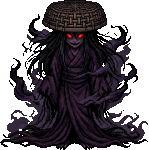
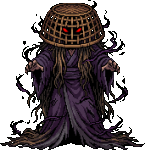
v104: ザルカブリの絵を描き直し（ざるが頭をまるごと覆う）

diff --git a/src/scenes/FieldScene.js b/src/scenes/FieldScene.js
@@ -2,30 +2,30 @@
 // 上 y0〜420 に地図（1マス32ドット・旅の者が真ん中、しおりと加わった仲間が1歩ずつうしろに続く）／下の窓に十字キーと「はなす」「どうぐ」
 // 話す・店・宿の文と選びも下の窓（そのあいだ十字キーは隠す）
 // 旅の状態は registry の 'game'（計算は src/field/game.js）。地図が変わる（町に入る・出る）たびに この場面を始め直す
-import { EPISODES } from '../data/episodes.js?v=103';
-import { ITEMS, PRICE, itemNote } from '../data/items.js?v=103';
-import { FISH, PRIZES, ROD_PRICE, BITE_WINDOW_MS, WAIT_MS, rollFish, zoneStart, inZone, rentRod, addCatch, exchange } from '../field/fishing.js?v=103';
-import { FLAGS, FLAG_PRIZES, ENTRY_PRICE, ROUND_MS, CATCH_P, newRace, stepRace, racePts, flagX, fallP, enterRace, addFlags, exchangeFlag } from '../field/nomaoi.js?v=103';
-import { TILE } from '../field/tiles.js?v=103';
-import { GROUNDS, OBJECTS, fieldLook, townLook } from '../field/look.js?v=103';
-import { preloadKit, makeWindow, makeButton, makePad, paginate } from '../ui/kit.js?v=103';
-import { preloadPeople, frameOf, ORIGIN_Y } from '../field/sprites.js?v=103';
-import { TOWNS, TOWN_OF } from '../field/towns.js?v=103';
+import { EPISODES } from '../data/episodes.js?v=104';
+import { ITEMS, PRICE, itemNote } from '../data/items.js?v=104';
+import { FISH, PRIZES, ROD_PRICE, BITE_WINDOW_MS, WAIT_MS, rollFish, zoneStart, inZone, rentRod, addCatch, exchange } from '../field/fishing.js?v=104';
+import { FLAGS, FLAG_PRIZES, ENTRY_PRICE, ROUND_MS, CATCH_P, newRace, stepRace, racePts, flagX, fallP, enterRace, addFlags, exchangeFlag } from '../field/nomaoi.js?v=104';
+import { TILE } from '../field/tiles.js?v=104';
+import { GROUNDS, OBJECTS, fieldLook, townLook } from '../field/look.js?v=104';
+import { preloadKit, makeWindow, makeButton, makePad, paginate } from '../ui/kit.js?v=104';
+import { preloadPeople, frameOf, ORIGIN_Y } from '../field/sprites.js?v=104';
+import { TOWNS, TOWN_OF } from '../field/towns.js?v=104';
 import {
   mapRows, terrainAt, canWalk, tileNameAt, DELTA, BOSS_AT, WALL_OPENED_BY, SAVE_KEY, maxOf,
   enterTown, leaveTown, buy, stayInn, save, autoSaveAfterBoss, useItem, walkStep, encounterAt,
   purify, kuyo, returnStolen, HARAI_PRICE, KUYO_PRICE, revive, revivePrice, NAME, isField, crossAt,
-} from '../field/game.js?v=103';
-import { membersOf } from '../battle/levels.js?v=103';
-import { COMPANIONS } from '../data/companions.js?v=103';
-import { ICON_IDS } from '../data/icons.js?v=103';
-import { FACE_IDS } from '../data/faces.js?v=103';
-import { mapPointOf } from '../field/mapcard.js?v=103';
-import { FISHING_ICON_IDS } from '../data/icons_fishing.js?v=103';
-import { makeRng } from '../battle/rules.js?v=103';
-import { EQUIP, SLOTS, SLOT_NAME, equipNote, START_EQUIP, diffNote, diffDown } from '../data/equip.js?v=103';
-import { buyEquip, partyView } from '../field/game.js?v=103';
-import { sfx, startBgm, playJingle, jingleSeconds } from '../audio/chip.js?v=103';
+} from '../field/game.js?v=104';
+import { membersOf } from '../battle/levels.js?v=104';
+import { COMPANIONS } from '../data/companions.js?v=104';
+import { ICON_IDS } from '../data/icons.js?v=104';
+import { FACE_IDS } from '../data/faces.js?v=104';
+import { mapPointOf } from '../field/mapcard.js?v=104';
+import { FISHING_ICON_IDS } from '../data/icons_fishing.js?v=104';
+import { makeRng } from '../battle/rules.js?v=104';
+import { EQUIP, SLOTS, SLOT_NAME, equipNote, START_EQUIP, diffNote, diffDown } from '../data/equip.js?v=104';
+import { buyEquip, partyView } from '../field/game.js?v=104';
+import { sfx, startBgm, playJingle, jingleSeconds } from '../audio/chip.js?v=104';
 
 // 景品の窓（釣り＝小名浜の釣り番／旗＝雲雀ヶ原の世話役）。同じ窓を 点の名前と景品の表だけ替えて使う
 const PRIZE_SHOPS = {

diff --git a/src/scenes/BattleScene.js b/src/scenes/BattleScene.js
@@ -1,14 +1,14 @@
-import { EPISODES } from '../data/episodes.js?v=103';
-import { revealAt } from '../ui/reveal.js?v=103';
-import { createBattle, resolveTurn, makeRng } from '../battle/rules.js?v=103';
-import { chooseCommands } from '../battle/auto.js?v=103';
-import { itemNote } from '../data/items.js?v=103';
-import { unlock, isUnlocked, sfx, startBgm, stopBgm, toggleMute, isMuted, playVoice, stopVoice, voiceLevel } from '../audio/chip.js?v=103';
-import { STORY_FILES } from '../data/story_assets.js?v=103';
-import { CUTIN_FILES } from '../data/cutin_assets.js?v=103';
-import { drawScroll } from '../ui/scroll.js?v=103';
-import { preloadKit, makeWindow, makeButton, paginate } from '../ui/kit.js?v=103';
-import { battleData, afterWin, afterLose, zakoData, afterZako, BOSS_MON } from '../field/game.js?v=103';
+import { EPISODES } from '../data/episodes.js?v=104';
+import { revealAt } from '../ui/reveal.js?v=104';
+import { createBattle, resolveTurn, makeRng } from '../battle/rules.js?v=104';
+import { chooseCommands } from '../battle/auto.js?v=104';
+import { itemNote } from '../data/items.js?v=104';
+import { unlock, isUnlocked, sfx, startBgm, stopBgm, toggleMute, isMuted, playVoice, stopVoice, voiceLevel } from '../audio/chip.js?v=104';
+import { STORY_FILES } from '../data/story_assets.js?v=104';
+import { CUTIN_FILES } from '../data/cutin_assets.js?v=104';
+import { drawScroll } from '../ui/scroll.js?v=104';
+import { preloadKit, makeWindow, makeButton, paginate } from '../ui/kit.js?v=104';
+import { battleData, afterWin, afterLose, zakoData, afterZako, BOSS_MON } from '../field/game.js?v=104';
 
 // 1つの戦いの画面を、話ごとのデータ（src/data/<話>.js・並びは episodes.js）で使い回す
 // 絵は Gemini で描いて art_src/prep_art.py で整えた物（敵も背景も2倍で見せる）。データの art に置き場と光の色

diff --git a/src/field/game.js b/src/field/game.js
@@ -1,14 +1,14 @@
 // 旅の状態（居場所・文・持ち物・仲間の HP・元に戻したボス・記録）。画面と切り離す＝Node で試験する
 // ここの関数は game を書き換えずに、新しい game を返す
-import { IWAKI_ROWS } from './iwaki_map.js?v=103';
-import { SOMA_ROWS } from './soma_map.js?v=103';
-import { FIELD_TERRAIN, TOWN_TERRAIN } from './tiles.js?v=103';
-import { TOWNS, TOWN_ENTRY } from './towns.js?v=103';
-import { ITEMS, PRICE, OLD_ITEM } from '../data/items.js?v=103';
-import { ZAKO, ZAKO_TELL } from '../data/zako.js?v=103';
-import { statsAt, levelFor, EXP_TO, PARTY_IDS, ALL_IDS, MAX_PARTY, membersOf, statsWithGear } from '../battle/levels.js?v=103';
-import { COMPANIONS, COMPANION_SPELLS, JOIN_AFTER } from '../data/companions.js?v=103';
-import { EQUIP, START_EQUIP } from '../data/equip.js?v=103';
+import { IWAKI_ROWS } from './iwaki_map.js?v=104';
+import { SOMA_ROWS } from './soma_map.js?v=104';
+import { FIELD_TERRAIN, TOWN_TERRAIN } from './tiles.js?v=104';
+import { TOWNS, TOWN_ENTRY } from './towns.js?v=104';
+import { ITEMS, PRICE, OLD_ITEM } from '../data/items.js?v=104';
+import { ZAKO, ZAKO_TELL } from '../data/zako.js?v=104';
+import { statsAt, levelFor, EXP_TO, PARTY_IDS, ALL_IDS, MAX_PARTY, membersOf, statsWithGear } from '../battle/levels.js?v=104';
+import { COMPANIONS, COMPANION_SPELLS, JOIN_AFTER } from '../data/companions.js?v=104';
+import { EQUIP, START_EQUIP } from '../data/equip.js?v=104';
 
 export const SAVE_KEY = 'fq-save-v1';
 

diff --git a/src/data/episodes.js b/src/data/episodes.js
@@ -1,13 +1,13 @@
 // 遊ぶ順（話数＝順路の順・本人 10/1）。題の画面は先頭の話を出し、勝つと「つぎの話へ」で次へ進む
 // 序章：第一話 松川様 → 第二話 賢沼の大うなぎ → 第三話 蛇岸淵（淵の主）→ 第四話 龍燈
-import { MATSUKAWA } from './matsukawa.js?v=103';
-import { KASHINUMA } from './kashinuma.js?v=103';
-import { JAGAN } from './jagan.js?v=103';
-import { RYUTO } from './ryuto.js?v=103';
+import { MATSUKAWA } from './matsukawa.js?v=104';
+import { KASHINUMA } from './kashinuma.js?v=104';
+import { JAGAN } from './jagan.js?v=104';
+import { RYUTO } from './ryuto.js?v=104';
 // 1章 相馬（10/3）：第五話 ザルカブリ山 → 第六話 大悲山の大蛇 → 第七話 手長明神 → 第八話 虎捕山の白狼（橘墨虎）
-import { ZARUKABURI } from './zarukaburi.js?v=103';
-import { DAIHISAN } from './daihisan.js?v=103';
-import { TENAGA } from './tenaga.js?v=103';
-import { SUMITORA } from './sumitora.js?v=103';
+import { ZARUKABURI } from './zarukaburi.js?v=104';
+import { DAIHISAN } from './daihisan.js?v=104';
+import { TENAGA } from './tenaga.js?v=104';
+import { SUMITORA } from './sumitora.js?v=104';
 
 export const EPISODES = [MATSUKAWA, KASHINUMA, JAGAN, RYUTO, ZARUKABURI, DAIHISAN, TENAGA, SUMITORA];

diff --git a/src/main.js b/src/main.js
@@ -1,11 +1,11 @@
-import { TitleScene } from './scenes/TitleScene.js?v=103';
-import { BattleScene } from './scenes/BattleScene.js?v=103';
-import { FieldScene, FIELD_TEXT } from './scenes/FieldScene.js?v=103';
-import { ZAKO, ZAKO_TELL } from './data/zako.js?v=103';
-import { HARAI } from './field/game.js?v=103';
-import { EQUIP } from './data/equip.js?v=103';
-import { EPISODES } from './data/episodes.js?v=103';
-import { unlock, isUnlocked } from './audio/chip.js?v=103';
+import { TitleScene } from './scenes/TitleScene.js?v=104';
+import { BattleScene } from './scenes/BattleScene.js?v=104';
+import { FieldScene, FIELD_TEXT } from './scenes/FieldScene.js?v=104';
+import { ZAKO, ZAKO_TELL } from './data/zako.js?v=104';
+import { HARAI } from './field/game.js?v=104';
+import { EQUIP } from './data/equip.js?v=104';
+import { EPISODES } from './data/episodes.js?v=104';
+import { unlock, isUnlocked } from './audio/chip.js?v=104';
 
 // 本人 10/2「松川と戦うまで、BGMが無い」＝iPhone は指を置いた瞬間（pointerdown）では音の出口を開けず、指を離した瞬間・クリックで開く
 // ⇒ 画面のどこを さわっても、離した瞬間に音の出口を開け直す（題の画面で一度さわった後だけ。止まっていれば鳴りだす）

diff --git a/src/data/zarukaburi.js b/src/data/zarukaburi.js
@@ -3,8 +3,8 @@
 // 乱れ髪を地面に引きずって微笑んで現れ、猟師はそれから殺生をやめた。獲りすぎる猟師を山の神が戒めた姿と伝わる（原典では倒されない）
 // ゲームでは、忘れられて黒いもやに呑まれた山の神の使い。⭐10/4 本人「敵と戦う形にして欲しい」＝戦う（10/3「C」の誓いの出会いは取りやめ）
 // 原典で倒されない所は、勝った後の紙芝居④と hosoku で しおりが補う。見た目は ざるのまま描き直す（本人 10/4・名前もそのまま）
-// 絵＝10/3 届いた（qil8fg・13r9vr・必殺技 pgmdxj）。背景も届いた。プロンプト＝art_src/Geminiプロンプト_1章相馬.md
-import { BASIC_ITEMS } from './basic_items.js?v=103';
+// 絵＝10/4 描き直し（sd30b3・czv1hg・必殺技 38x7zb＝ざるが頭をまるごと覆う）。旧＝10/3 qil8fg・13r9vr・pgmdxj。背景は10/3のまま。プロンプト＝art_src/Geminiプロンプト_1章相馬.md
+import { BASIC_ITEMS } from './basic_items.js?v=104';
 
 export const ZARUKABURI = {
   art: {

diff --git a/src/scenes/TitleScene.js b/src/scenes/TitleScene.js
@@ -1,8 +1,8 @@
-import { EPISODES } from '../data/episodes.js?v=103';
-import { unlock, startBgm, stopBgm, sfx } from '../audio/chip.js?v=103';
-import { drawScroll, BRUSH_FONT, smooth } from '../ui/scroll.js?v=103';
-import { newGame, load, SAVE_KEY } from '../field/game.js?v=103';
-import { preloadKit, makeWindow } from '../ui/kit.js?v=103';
+import { EPISODES } from '../data/episodes.js?v=104';
+import { unlock, startBgm, stopBgm, sfx } from '../audio/chip.js?v=104';
+import { drawScroll, BRUSH_FONT, smooth } from '../ui/scroll.js?v=104';
+import { newGame, load, SAVE_KEY } from '../field/game.js?v=104';
+import { preloadKit, makeWindow } from '../ui/kit.js?v=104';
 
 // 題の画面（本人 10/1「さわってはじめる、から音楽が欲しい」）
 // ⭐10/3 本人「アイコンクリック後、『はじめから』『つづきから』を加えてほしい」＝下に2つの札。押した札で始まる（1回で）

diff --git a/src/data/daihisan.js b/src/data/daihisan.js
@@ -5,7 +5,7 @@
 // ゲームでは、忘れの力でよみがえった大蛇。弱点＝「鉄の釘」。助っ人＝玉都（本人 10/3「戦いの中で琵琶を弾く助っ人」）＝語って弱点が明かされると
 // 琵琶が鳴り、大蛇は聞き入って2回動けない。その後も ときどき琵琶で止める
 // 絵＝10/3 届いた（2noh3h 大蛇・xf4m56 封じられた姿）。必殺技の挿絵＝描き直し（貼り付け・使用済み_絵／大悲山_大雨_描き直し_貼り付け.jpg。1回目 vxa4qk は封じられた姿と山高帽で描かれた）。背景も届いた。プロンプト＝art_src/Geminiプロンプト_1章相馬.md
-import { BASIC_ITEMS } from './basic_items.js?v=103';
+import { BASIC_ITEMS } from './basic_items.js?v=104';
 
 export const DAIHISAN = {
   art: {

diff --git a/src/data/sumitora.js b/src/data/sumitora.js
@@ -5,7 +5,7 @@
 // ゲームでは、忘れの力でよみがえった墨虎。語って弱点が明かされるまでは岩穴の闇に隠れて、たたかう・鉄砲の半分がとどかない（hide）。
 // 明かされると白狼が現れて足跡で隠れ家を暴き、ときどき墨虎に とびかかる（helper）。弱点＝「白狼の足跡」
 // 絵＝10/3 届いた（pbl37p 墨虎・2uh591 捕らえられた姿＝肌が緑に描かれたので prep_art で人の肌へ・9mqri4 闇討ち・achnd8 火矢の雨）。背景も届いた。プロンプト＝art_src/Geminiプロンプト_1章相馬.md
-import { BASIC_ITEMS } from './basic_items.js?v=103';
+import { BASIC_ITEMS } from './basic_items.js?v=104';
 
 export const SUMITORA = {
   art: {

diff --git a/src/data/tenaga.js b/src/data/tenaga.js
@@ -4,7 +4,7 @@
 // 漁師になった少年 長吉は、海から戻ると海のめぐみと無事に帰れたことへの感謝を忘れなかった
 // ゲームでは、忘れられて黒いもやに呑まれた暮らしの守り神。弱点＝「海の幸への感謝」。倒すと元に戻り、長い腕で虎捕山への もやを払う
 // 絵＝10/3 届いた（1ukroq 呑まれた・z1hpg6 元の姿・3dcp6z 長い腕。①→挿絵→②の順で頼んで姿がそろった）。背景も届いた。プロンプト＝art_src/Geminiプロンプト_1章相馬.md
-import { BASIC_ITEMS } from './basic_items.js?v=103';
+import { BASIC_ITEMS } from './basic_items.js?v=104';
 
 export const TENAGA = {
   art: {

diff --git a/src/field/nomaoi.js b/src/field/nomaoi.js
@@ -4,7 +4,7 @@
 // 遊び方（画面は FieldScene の nomaoi*）：花火で上がった旗が ゆらゆら落ちてくる → 旅の者の馬を左右に走らせ、ほかの騎馬武者より先に受け取る
 // 旗の色：赤・青＝1点／金＝3点（金はゲームの作り。めったに上がらず、速く落ちる）。取った旗の点＝「旗点」→ 世話役が景品と換える
 // 画面と切り離す＝Node で試験する。ここの関数は game も race も書き換えずに新しい物を返す
-import { exchangePrize } from './fishing.js?v=103';
+import { exchangePrize } from './fishing.js?v=104';
 
 export const ENTRY_PRICE = 10;
 export const ROUND_MS = 30000;

diff --git a/src/data/kashinuma.js b/src/data/kashinuma.js
@@ -3,7 +3,7 @@
 // 沼の主は大人の背丈より大きなうなぎで、弁天さまのお使い。猟師が沼のカモを撃ち、取りに水へ入ると、水が重くなって動けず、
 // 足の下を大きなものが静かに通った。猟師が心の中で詫びると体が軽くなった。それから里の人は沼のものを捕らなくなった。
 // 倒すと元の姿に戻り、弁天さまが姿を見せる（本人 10/1「弁天がでるところはありませんか？」・影絵版 8/3 の終幕と同じ形）
-import { BASIC_ITEMS } from './basic_items.js?v=103';
+import { BASIC_ITEMS } from './basic_items.js?v=104';
 
 export const KASHINUMA = {
   art: {
